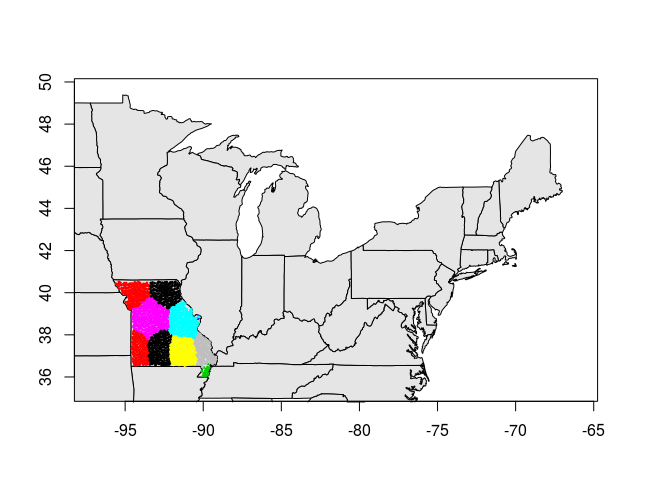
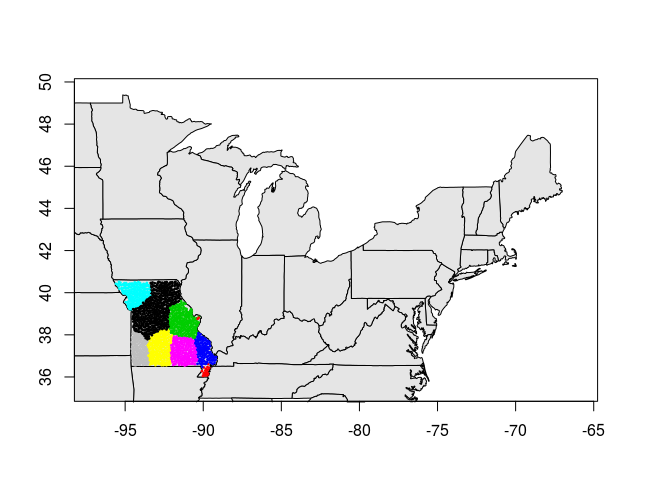
add narrative to README

Changed region(s): [[0.1562, 0.5625, 0.3438, 0.7812]]

diff --git a/README.md b/README.md
@@ -38,18 +38,20 @@ coords <- read.csv("data-raw/latLong18876.csv", header = T)
 
 ### Prep Input
 
+Here we create a data matrix `dt` where each row is an observation and each column is a variable. In this example, we subset a larger matrix to focus on the US State of Missouri. Uninformative (constant) variables are removed with `rm_constant_columns`. Next, we create a constraint matrix that incorporates information on the spatial dependence among observations.
+
 ``` r
+# Create data matrix
 in_state <- as.character(dt$hu12_states) == "MO"
 dt <- dt[in_state, -c(1,2)]
 dt <- as.matrix(rm_constant_columns(dt))
-coords <- as.matrix(coords[in_state,])
-
-colnames(coords) <- NULL
 colnames(dt) <- NULL
 
+# Create constraint matrix
+coords <- as.matrix(coords[in_state,])
+colnames(coords) <- NULL
 nb <- spdep::dnearneigh(coords, 0, 0.192)
 nb <- nb_collapse(nb)
-
 cmat <- neighborMatrix(nb, conFactor = 1)
 ```
 
@@ -71,8 +73,8 @@ results$SS
 #> $SSB
 #> [1] 16479.08
 head(results$clusters)
-#>  1  2  3  4  5  6 
-#> 10 10 10 10 10 10
+#> 1 2 3 4 5 6 
+#> 8 8 8 8 8 8
 mapping(lat = coords[,1], long = coords[,2],
          clusters = results$clusters)
 ```
